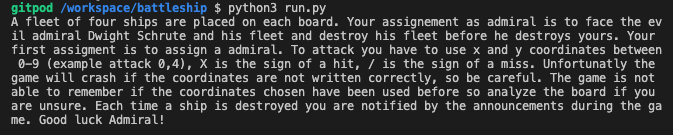
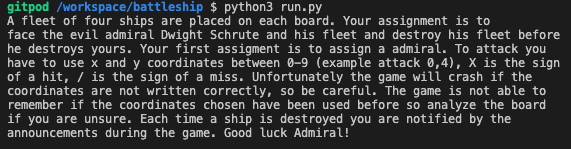
Fix comments since game wont crash anymore

diff --git a/run.py b/run.py
@@ -6,11 +6,10 @@ import time
 rules = """A fleet of four ships are placed on each board. Your assignment is to 
 face the evil admiral Dwight Schrute and his fleet and destroy his fleet before
 he destroys yours. Your first assigment is to assign a admiral. To attack you
-have to use x and y coordinates between 0-9 (example attack 0,4), X is the sign
-of a hit, / is the sign of a miss. Unfortunately the game will crash if the
-coordinates are not written correctly, so be careful. The game is not able to
-remember if the coordinates chosen have been used before so analyze the board
-if you are unsure. Each time a ship is destroyed you are notified by the
+have to use x and y coordinates between 0-9, first you add the x variabel than 
+the y variable. X is the sign of a hit, / is the sign of a miss. The game is not 
+able to remember if the coordinates chosen have been used before so analyze the 
+board if you are unsure. Each time a ship is destroyed you are notified by the
 announcements during the game. Good luck Admiral!\n"""
 print(rules)
 username = input("Enter Admiral Name\n")
@@ -86,7 +85,8 @@ class admiral (object):
         self.name = name
         self.shot_f = shot_f
 
-# Construct empty board horisontally, fleet is set to True when adjusting placement of the fleets ships.
+# Construct empty board horisontally, fleet is set to True when adjusting
+#  placement of the fleets ships.
 def render_basic(game_board, show_fleet = False):
     header = "#" + "-" * game_board.width + "#"
     print(header)
@@ -151,12 +151,12 @@ def announce_en(event_type, metadata = {}):
     elif event_type == "Ship_hit":
         print("%s Your Attack Was Sucessfull!" % metadata['admiral'])
     else:
-        # Game crashes if an admiral does add 10 (x or y) or above. Either wright in rules in instructions file or fix.
         print("Borde Missed: %s" % event_type)
 
 def announce_none(event_type, metadata={}):
     pass
 
+# Only coordinates between 0-9 is valid, ensures game will not crash because of faulty input.
 def get_human_shot(game_board):
     x = None
     y = None
@@ -177,7 +177,7 @@ def get_human_shot(game_board):
 
     return (x,y)
 
-# Provides random shot on the board, width / height -1 since coordinates goes from 0-9, negative numbers or 10 or above will crash the program.
+# Provides random shot on the board, width / height -1 since coordinates goes from 0-9.
 def get_random_ai_shot(game_board):
     x = random.randint(0, game_board.width - 1)
     y = random.randint(0, game_board.height - 1)

diff --git a/Readme.md b/Readme.md
@@ -58,11 +58,9 @@ The opponent is a AI.
 
 # Unfixed Bugs
 
-* If the coordinates are not written correctly the game crashes, the coordinates have to be with in the game board area (x 0-9, y 0-9).
-
 * The game has no way of knowing if the coordinates have been used before or not.
 
-* If a player writes down the coordinates before the AI has attacked the player might get confused since the input seems to be needed to be put forth again. If it is it will crash.
+* If a player writes down the coordinates before the AI has attacked the player might get confused since the input seems to be needed to be put forth again. If it is the player has to put forth the coordinates again. Can be avoided through removing the time module. Will keep for more realistic user experience.
 
 
 # Deployment
